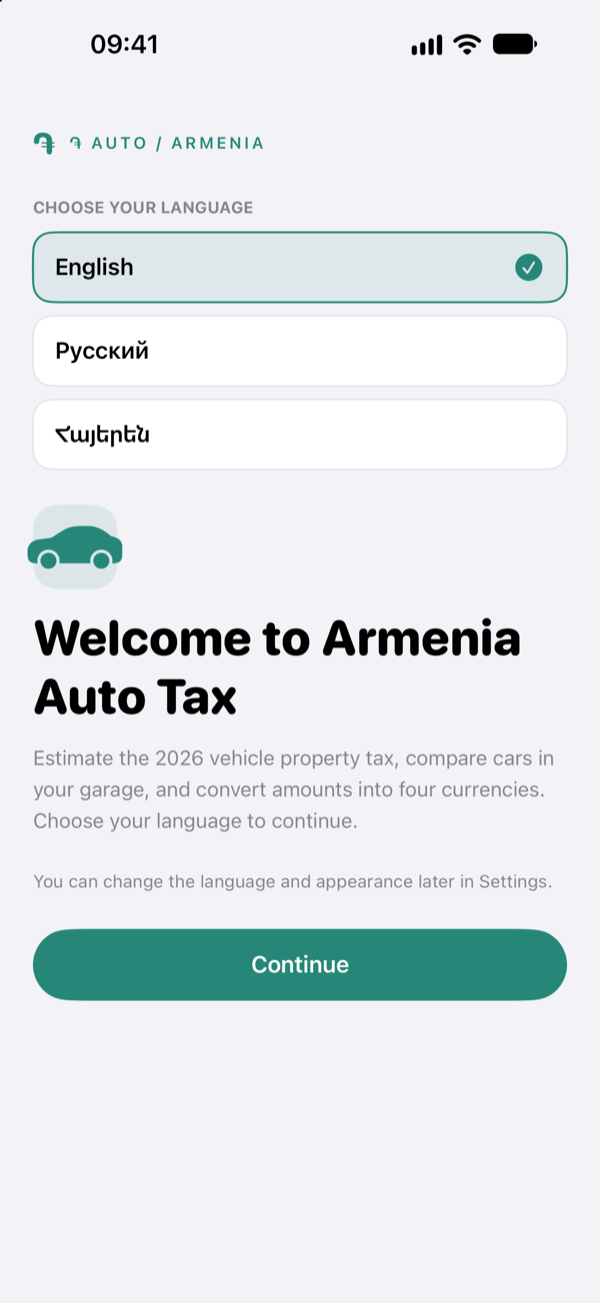
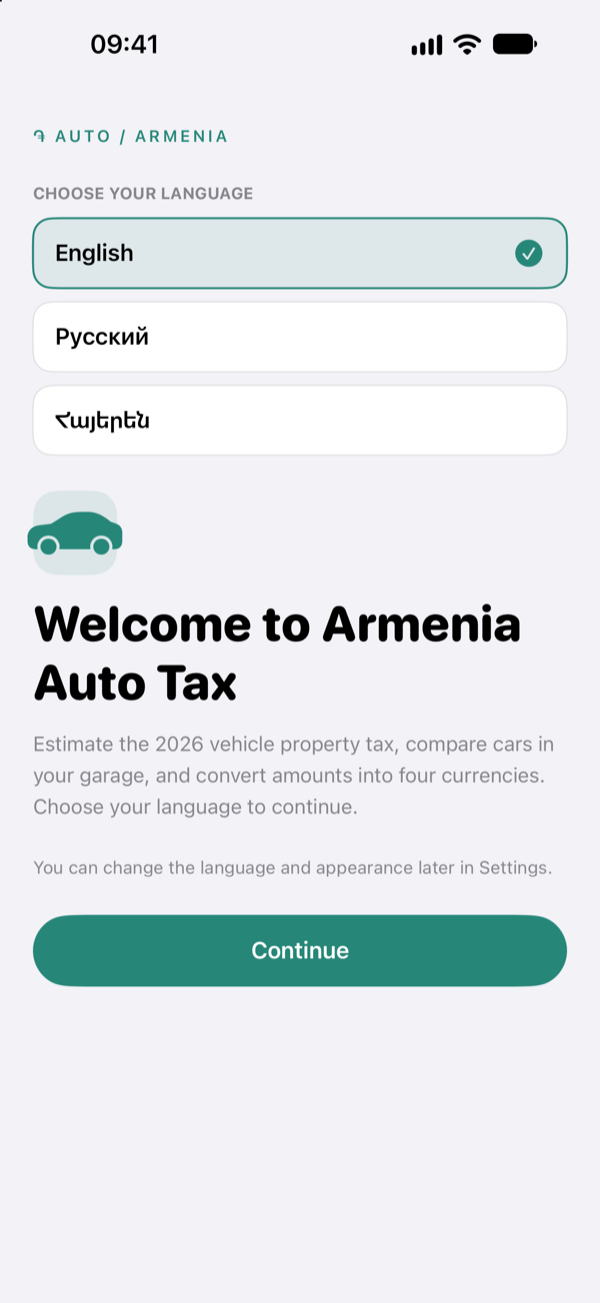
Add iPad support and refresh App Store screenshots

diff --git a/Tests/iOSUITests/ArmeniaAutoTaxUITests.swift b/Tests/iOSUITests/ArmeniaAutoTaxUITests.swift
@@ -60,7 +60,7 @@ final class ArmeniaAutoTaxUITests: XCTestCase {
         let amount = app.staticTexts["calculator.result.amount"]
         let predicate = NSPredicate(format: "label CONTAINS '150,000'")
         expectation(for: predicate, evaluatedWith: amount)
-        waitForExpectations(timeout: 5)
+        waitForExpectations(timeout: 10)
     }
 
     func testSettingsChangesLanguageAndTheme() {
@@ -233,7 +233,7 @@ final class ArmeniaAutoTaxUITests: XCTestCase {
 
         let amount = app.staticTexts["calculator.result.amount"]
         expectation(for: NSPredicate(format: "label CONTAINS '20,400'"), evaluatedWith: amount)
-        waitForExpectations(timeout: 5)
+        waitForExpectations(timeout: 10)
     }
 
     func testElectricVehicleRawPowerUsesThe2026Rule() {
@@ -251,7 +251,7 @@ final class ArmeniaAutoTaxUITests: XCTestCase {
         let amount = app.staticTexts["calculator.result.amount"]
         let predicate = NSPredicate(format: "label CONTAINS '276,400'")
         expectation(for: predicate, evaluatedWith: amount)
-        waitForExpectations(timeout: 5)
+        waitForExpectations(timeout: 10)
 
         let taxable = app.staticTexts["calculator.result.taxablePower"]
         XCTAssertTrue(taxable.exists)
@@ -260,7 +260,7 @@ final class ArmeniaAutoTaxUITests: XCTestCase {
         choose(app.buttons["calculator.powerSource"], option: "Electric · e-passport power")
         replaceText(horsepower, with: "250")
         expectation(for: NSPredicate(format: "label CONTAINS '175,000'"), evaluatedWith: amount)
-        waitForExpectations(timeout: 5)
+        waitForExpectations(timeout: 10)
         XCTAssertFalse(app.staticTexts["calculator.result.taxablePower"].exists)
     }
 
@@ -272,12 +272,12 @@ final class ArmeniaAutoTaxUITests: XCTestCase {
 
         let amount = app.staticTexts["calculator.result.amount"]
         expectation(for: NSPredicate(format: "label CONTAINS '99,540'"), evaluatedWith: amount)
-        waitForExpectations(timeout: 5)
+        waitForExpectations(timeout: 10)
 
         choose(app.buttons["calculator.taxYear"], option: "2027")
 
         expectation(for: NSPredicate(format: "label CONTAINS '82,950'"), evaluatedWith: amount)
-        waitForExpectations(timeout: 5)
+        waitForExpectations(timeout: 10)
         XCTAssertTrue(app.staticTexts.containing(
             NSPredicate(format: "label CONTAINS 'projected'")
         ).firstMatch.exists)
@@ -345,7 +345,7 @@ final class ArmeniaAutoTaxUITests: XCTestCase {
         tab("Calculator").tap()
         let amount = app.staticTexts["calculator.result.amount"]
         expectation(for: NSPredicate(format: "label CONTAINS '95,100'"), evaluatedWith: amount)
-        waitForExpectations(timeout: 5)
+        waitForExpectations(timeout: 10)
         XCTAssertTrue(app.staticTexts.containing(
             NSPredicate(format: "label CONTAINS 'Custom tax rates are active'")
         ).firstMatch.exists)
@@ -362,6 +362,6 @@ final class ArmeniaAutoTaxUITests: XCTestCase {
 
         tab("Calculator").tap()
         expectation(for: NSPredicate(format: "label CONTAINS '82,950'"), evaluatedWith: amount)
-        waitForExpectations(timeout: 5)
+        waitForExpectations(timeout: 10)
     }
 }

diff --git a/ArmeniaAutoTax/Views/CalculatorView.swift b/ArmeniaAutoTax/Views/CalculatorView.swift
@@ -66,6 +66,7 @@ struct CalculatorView: View {
                 }
                 .padding(.horizontal, 16)
                 .padding(.vertical, 20)
+                .appContentWidth()
             }
             .contentMargins(.bottom, 104, for: .scrollContent)
             .background(Palette.background)
@@ -151,9 +152,9 @@ struct CalculatorView: View {
                 VStack(alignment: .leading, spacing: 8) {
                     InlineMessage(
                         symbol: "calendar.badge.plus",
-                        message: f("calculator.newYear", currentYear, store.taxYear)
+                        message: f("calculator.newYear", String(currentYear), String(store.taxYear))
                     )
-                    Button(f("calculator.newYear.action", currentYear)) {
+                    Button(f("calculator.newYear.action", String(currentYear))) {
                         store.taxYear = currentYear
                     }
                     .font(.footnote.weight(.semibold))
@@ -170,7 +171,7 @@ struct CalculatorView: View {
                 VStack(alignment: .leading, spacing: 8) {
                     InlineMessage(
                         symbol: "slider.horizontal.3",
-                        message: f("calculator.customRates", store.taxYear)
+                        message: f("calculator.customRates", String(store.taxYear))
                     )
                     NavigationLink(t("calculator.customRates.action")) {
                         TaxRatesEditorView(taxRates: taxRates, language: store.language, initialYear: store.taxYear)
@@ -183,7 +184,7 @@ struct CalculatorView: View {
             SurfaceCard {
                 InlineMessage(
                     symbol: "clock.badge.exclamationmark",
-                    message: f("calculator.projectedRates", store.taxYear)
+                    message: f("calculator.projectedRates", String(store.taxYear))
                 )
             }
         }

diff --git a/ArmeniaAutoTax/Views/DonationView.swift b/ArmeniaAutoTax/Views/DonationView.swift
@@ -41,6 +41,7 @@ struct DonationView: View {
                 }
                 .padding(.horizontal, 16)
                 .padding(.vertical, 20)
+                .appContentWidth()
             }
             .contentMargins(.bottom, 170, for: .scrollContent)
         }
@@ -50,10 +51,15 @@ struct DonationView: View {
         .toolbarBackground(.visible, for: .navigationBar)
         .safeAreaInset(edge: .bottom) {
             if store.feedback != .thankYou {
-                donateButton
-                    .padding(.horizontal, 16)
-                    .padding(.vertical, 10)
-                    .background(.bar)
+                HStack {
+                    Spacer(minLength: 0)
+                    donateButton
+                        .frame(maxWidth: 848)
+                    Spacer(minLength: 0)
+                }
+                .padding(.horizontal, 16)
+                .padding(.vertical, 10)
+                .background(.bar)
             }
         }
         .task {

diff --git a/ArmeniaAutoTax/Services/AppStore.swift b/ArmeniaAutoTax/Services/AppStore.swift
@@ -87,12 +87,24 @@ final class AppStore: ObservableObject {
         hasCompletedOnboarding = testDefaults.bool(forKey: Self.onboardingKey)
 
         #if DEBUG
+        if let value = LaunchOptions.value(after: "-demo-tax-year"),
+           let year = Int(value) {
+            taxYear = TaxScheduleStore.clampedYear(year)
+        }
         if let code = LaunchOptions.value(after: "-app-language"),
            let selected = AppLanguage(rawValue: code) {
             language = selected
         }
         if arguments.contains("-demo-data") {
             seedDemoData()
+        }
+        if arguments.contains("-demo-ev") {
+            draft = Vehicle(
+                name: "Nissan Ariya",
+                manufactureYear: 2023,
+                horsepower: 544,
+                powerSource: .electricRaw
+            )
         }
         #endif
     }

diff --git a/ArmeniaAutoTax/Views/TaxChartsView.swift b/ArmeniaAutoTax/Views/TaxChartsView.swift
@@ -52,8 +52,8 @@ struct TaxChartsView: View {
                         InlineMessage(
                             symbol: "chart.bar.xaxis",
                             message: f("charts.power.note",
-                                       MoneyText.number(thresholdPair.low),
-                                       MoneyText.number(thresholdPair.high),
+                                       Int(thresholdPair.low),
+                                       Int(thresholdPair.high),
                                        MoneyText.amount(thresholdDifference, digits: 0))
                         )
                     } else {

diff --git a/ArmeniaAutoTax/Views/DesignSystem.swift b/ArmeniaAutoTax/Views/DesignSystem.swift
@@ -41,6 +41,20 @@ enum MoneyText {
     }
 }
 
+/// Keeps readable line lengths and control widths on iPad while the
+/// surrounding scroll view still fills the window.
+struct AppContentWidth: ViewModifier {
+    func body(content: Content) -> some View {
+        content
+            .frame(maxWidth: 880, alignment: .leading)
+            .frame(maxWidth: .infinity)
+    }
+}
+
+extension View {
+    func appContentWidth() -> some View { modifier(AppContentWidth()) }
+}
+
 struct SectionHeader: View {
     let kicker: String
     let title: String

diff --git a/ArmeniaAutoTax/Views/OnboardingView.swift b/ArmeniaAutoTax/Views/OnboardingView.swift
@@ -29,9 +29,6 @@ struct OnboardingView: View {
 
     private var brand: some View {
         HStack(spacing: 9) {
-            Text("֏")
-                .font(.system(size: 22, weight: .heavy, design: .rounded))
-                .foregroundStyle(Palette.accent)
             Text(L10n.string("app.brand"))
                 .font(.caption.bold())
                 .tracking(2)

diff --git a/ArmeniaAutoTax/Views/SettingsView.swift b/ArmeniaAutoTax/Views/SettingsView.swift
@@ -107,6 +107,7 @@ struct SettingsView: View {
             }
             .padding(.horizontal, 16)
             .padding(.vertical, 20)
+            .appContentWidth()
         }
         .contentMargins(.bottom, 104, for: .scrollContent)
         .background(Palette.background)

diff --git a/ArmeniaAutoTax/Views/GarageView.swift b/ArmeniaAutoTax/Views/GarageView.swift
@@ -43,6 +43,7 @@ struct GarageView: View {
             }
             .padding(.horizontal, 16)
             .padding(.vertical, 20)
+            .appContentWidth()
         }
         .contentMargins(.bottom, 104, for: .scrollContent)
         .background(Palette.background)

diff --git a/ArmeniaAutoTax/Views/TaxRatesEditorView.swift b/ArmeniaAutoTax/Views/TaxRatesEditorView.swift
@@ -52,6 +52,7 @@ struct TaxRatesEditorView: View {
                 resetButton
             }
             .padding(16)
+            .appContentWidth()
         }
         .contentMargins(.bottom, 100, for: .scrollContent)
         .background(Palette.background)

diff --git a/ArmeniaAutoTax/Views/RulesView.swift b/ArmeniaAutoTax/Views/RulesView.swift
@@ -21,6 +21,7 @@ struct RulesView: View {
                 links
             }
             .padding(16)
+            .appContentWidth()
         }
         .contentMargins(.bottom, 104, for: .scrollContent)
         .background(Palette.background)

diff --git a/README.md b/README.md
@@ -17,39 +17,47 @@
 
 ---
 
-Armenia Auto Tax turns the Armenian vehicle property tax rules into a clear, fast iPhone experience. It estimates the annual and period tax, explains every part of the calculation, converts the result into four currencies, compares vehicles in a local garage and keeps a private calculation history.
+Armenia Auto Tax turns the Armenian vehicle property tax rules into a clear, fast iPhone and iPad experience. It estimates the annual and period tax, explains every part of the calculation, converts the result into four currencies, compares vehicles in a local garage and keeps a private calculation history.
 
 The app is fully on-device. There is no account, no backend, no advertising and no tracking.
 
 ## Features
 
 - **Verified 2026 calculator** for passenger cars, buses, cargo/cargo-passenger vehicles, motorcycles and ATVs/snowmobiles/watercraft. 2027–2030 are projected from the 2026 schedule and clearly marked.
+- **Tax year picker** from 2026 to 2030, with a visible verified/projected status and a suggestion when a new calendar year starts.
 - **The real rate bands**: 200/300/500 AMD per hp for passenger cars, the extra 1,000 AMD above 150 hp, 100/200 AMD for buses and cargo, 40 AMD for motorcycles and 150 AMD for other vehicles.
 - **EV power rule**: choose fuel/hybrid, electric power from the EAEU e-passport, or raw electric motor power. Raw power uses the 2026 1.5 / 2.5 rule; e-passport power is used as is.
+- **Power in hp or kW** with the statutory 1.36 coefficient and decimal input.
 - **Age reduction** of 10% per year from the third tax year following manufacture, capped at 50%, plus the 20th-year cargo exemption.
+- **Ownership dates** can produce the Article 246 liability months: the acquisition month is excluded, the disposal month is included, and a December acquisition produces zero months in that tax year.
 - **Editable rate schedules**: inspect the official bands, override them per tax year, preview the effect and reset to the verified defaults.
 - **Four-currency converter** for AMD, USD, EUR and RUB with official Central Bank of Armenia rates, cached offline values and manual overrides.
 - **Swift Charts** for taxable-horsepower jumps and a 2026–2030 projection using the effective schedule.
 - **Garage and history** with local JSON persistence, one-tap reload, deletion and JSON export through the native share sheet.
 - **English, Russian and Armenian** with English as the default. The language can be changed during onboarding or later in Settings.
 - **Appearance control**: system, light or dark.
+- **iPhone and iPad** layouts with a centered reading width on iPad.
 - **Optional tips** through StoreKit 2 consumables. Donations unlock nothing; every feature is always available.
 
 ## Screenshots
 
-| Welcome | Calculator |
-|:---:|:---:|
-| <img src="Screenshots/onboarding.png" width="260"> | <img src="Screenshots/calculator.png" width="260"> |
-
-| Charts and converter | Garage | Settings |
+| Welcome | Calculator | EV power |
 |:---:|:---:|:---:|
-| <img src="Screenshots/charts.png" width="220"> | <img src="Screenshots/garage.png" width="220"> | <img src="Screenshots/settings.png" width="220"> |
+| <img src="Screenshots/onboarding.png" width="210"> | <img src="Screenshots/calculator.png" width="210"> | <img src="Screenshots/ev.png" width="210"> |
+
+| Any tax year | Charts | Garage |
+|:---:|:---:|:---:|
+| <img src="Screenshots/years.png" width="210"> | <img src="Screenshots/charts.png" width="210"> | <img src="Screenshots/garage.png" width="210"> |
+
+| Settings | Donations |
+|:---:|:---:|
+| <img src="Screenshots/settings.png" width="210"> | <img src="Screenshots/donations.png" width="210"> |
 
 ## Requirements
 
 - Xcode 16 or newer
 - iOS 17 or newer
-- iPhone (the app is designed for iPhone; iPad runs it in compatibility mode)
+- iPhone and iPad
 - No CocoaPods, Carthage, Swift Package dependencies, server, account or API key
 
 ## Run the app
